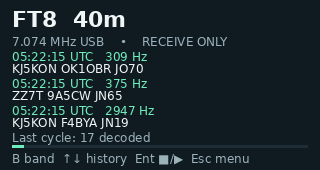
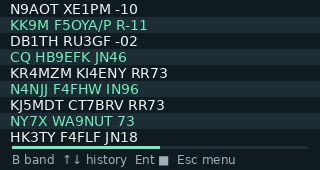
Expand FT8 decode view and silence speaker playback

diff --git a/tests/test_ft8.py b/tests/test_ft8.py
@@ -82,3 +82,26 @@ class RadioModeShortcut(unittest.TestCase):
             os.close(write)
         self.assertEqual(commands, [("mode", 1), ("mode", 0)])
         self.assertEqual(receiver.frequency, 7074000)
+
+
+class SilentReception(unittest.TestCase):
+    def test_ft8_audio_reaches_decoder_without_opening_speaker(self):
+        import runpy
+        module = runpy.run_path(str(Path(__file__).resolve().parents[1] / "app/icomzero"))
+        raw = np.arange(480, dtype="<i2").tobytes()
+        captured = []
+        def listen(*args, **kwargs):
+            args[6](raw)
+            args[4].set()
+        with patch.dict(module["Receiver"].run.__globals__, {"listen": listen}), patch("subprocess.Popen") as player:
+            receiver = module["Receiver"]()
+            receiver.volume, receiver.muted = 35, False
+            receiver.play_audio = False
+            receiver.audio_observer = captured.append
+            receiver.start(("192.0.2.1", 50001, "user", "password"))
+            receiver.thread.join(2)
+        player.assert_not_called()
+        self.assertEqual(captured, [raw])
+        self.assertEqual(receiver.packets, 1)
+        self.assertEqual((receiver.volume, receiver.muted), (35, False))
+        self.assertFalse(receiver.busy())

diff --git a/README.md b/README.md
@@ -27,7 +27,7 @@ Connect the Cardputer to a network that can reach the radio and enable the radio
 For manual installation, download the `.deb` from [GitHub Releases](https://github.com/unagisan69/ICOMzero/releases), then install it on the Cardputer.
 
 ```sh
-sudo apt install ./icomzero_0.5.0-1_arm64.deb
+sudo apt install ./icomzero_0.5.1-1_arm64.deb
 ```
 
 Open **ICOMzero** from APPLaunch after installation.
@@ -50,9 +50,9 @@ Press **Tab** on the receiver screen to open the keyboard shortcut guide. **Tab*
 
 Choose **FT8** from the startup menu to connect and decode on **40m, 7.074 MHz USB**. **B** opens FT8 band presets; use **Z/C** and **Enter** to select. **↑/↓** scroll decoded history. **Enter** stops/restarts reception, and **Esc** returns to the menu. The decoder runs locally on the Cardputer; no computer bridge is needed.
 
-Messages show the UTC receive period, audio frequency and decoded text. Expect the first results after collecting a complete 15-second period, usually 15–30 seconds after connection. Keep the device clock synchronized with network time. Receiver noise reduction is disabled during FT8 and the prior frequency, mode and NR setting are restored when returning to the menu. Keep receiver noise blanker and notch filters off for best decoding.
+The FT8 screen shows nine decoded message rows with alternating colors. Expect the first results after collecting a complete 15-second period, usually 15–30 seconds after connection. Keep the device clock synchronized with network time. Receiver noise reduction is disabled during FT8 and the prior frequency, mode and NR setting are restored when returning to the menu. Keep receiver noise blanker and notch filters off for best decoding.
 
-Speaker volume and mute do not affect decoding. This release receives and decodes only; FT8 does not transmit, call stations, or run the antenna tuner. FT8 uses USB on every preset, including 40m. Native decoding uses [ft8_lib](https://github.com/kgoba/ft8_lib), with CRC-checked messages; sensitivity is lower than a full WSJT-X decoder, and some hashed callsigns may remain unresolved. No estimated SNR is displayed. The package is built for the Cardputer's ARM64 processor.
+FT8 reception is always silent and does not change the saved Radio volume or mute settings. This release receives and decodes only; FT8 does not transmit, call stations, or run the antenna tuner. FT8 uses USB on every preset, including 40m. Native decoding uses [ft8_lib](https://github.com/kgoba/ft8_lib), with CRC-checked messages; sensitivity is lower than a full WSJT-X decoder, and some hashed callsigns may remain unresolved. No estimated SNR is displayed. The package is built for the Cardputer's ARM64 processor.
 
 ## Build and test
 
@@ -64,7 +64,7 @@ sudo apt install build-essential python3-pil python3-numpy
 make check
 make test
 make package
-sudo apt install ./build/icomzero_0.5.0-1_arm64.deb
+sudo apt install ./build/icomzero_0.5.1-1_arm64.deb
 ```
 
 Use `make package APPBUILDER=/path/to/AppBuilder` for another checkout location. The package includes a foreground APPLaunch entry and declares its Python, Pillow, NumPy, font, ALSA, and PipeWire dependencies.

diff --git a/CHANGELOG.md b/CHANGELOG.md
@@ -1,5 +1,11 @@
 # Changelog
 
+## 0.5.1 — 2026-11-21
+
+- Show nine FT8 decodes per page with alternating row and text colors.
+- Remove the FT8 heading, timestamps, audio frequencies and last-cycle status row.
+- Keep FT8 reception silent without opening the speaker or changing saved Radio volume/mute settings.
+
 ## 0.5.0 — 2026-11-21
 
 - Add a Radio / FT8 startup menu and receive-only FT8 message screen.
